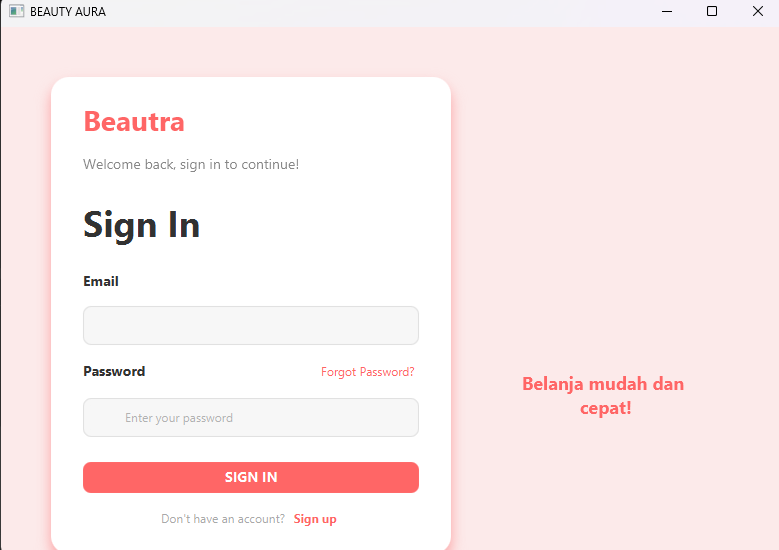
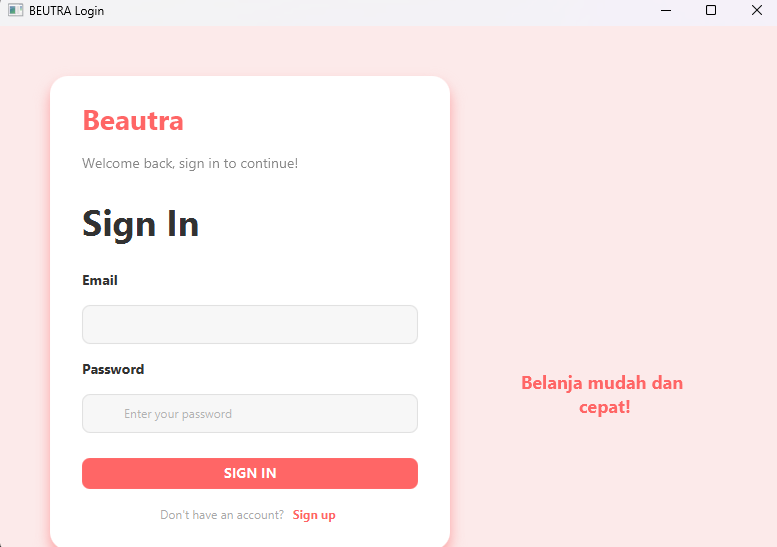
yaya

diff --git a/BEAUTRA/app/src/main/java/controller/LoginController.java b/BEAUTRA/app/src/main/java/controller/LoginController.java
@@ -59,13 +59,5 @@ public class LoginController {
         }
     }
 
-    @FXML
-    private void handleForgotPassword() {
-        String email = emailField.getText();
-        if (email == null || email.isEmpty()) {
-            util.AlertUtil.showInfo("Masukkan email Anda terlebih dahulu.");
-            return;
-        }
-    }
 }
 
